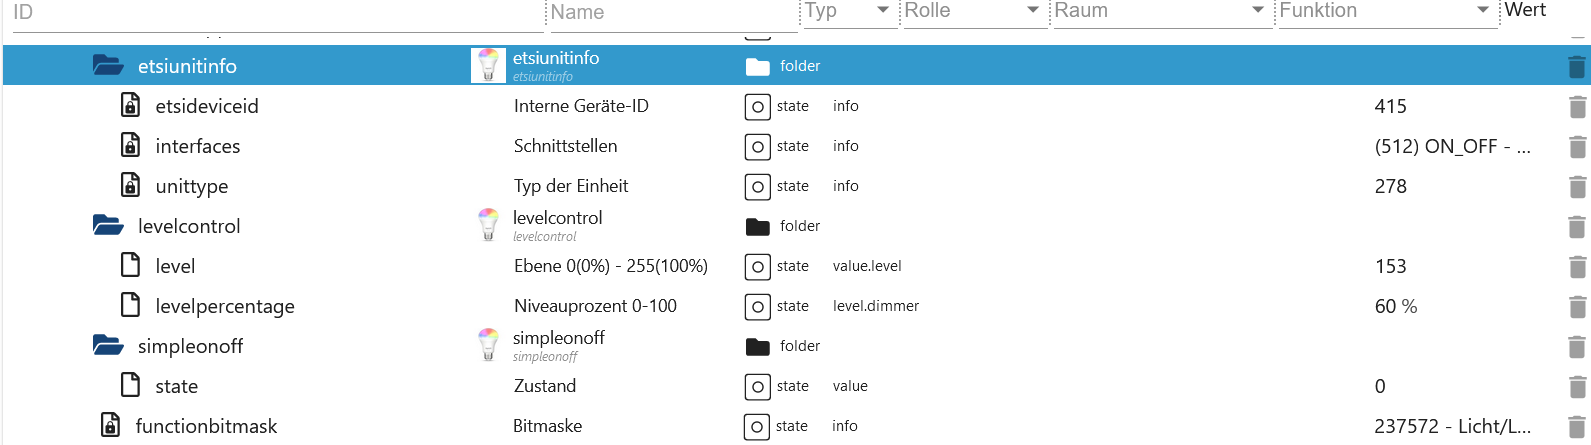
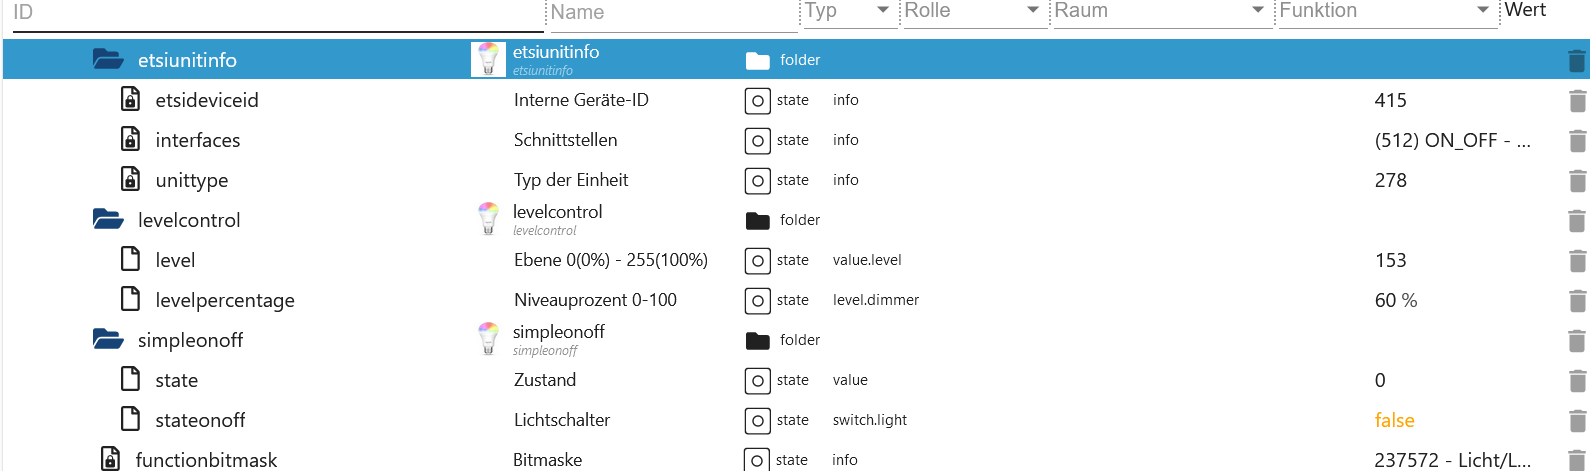
update dect 500

diff --git a/docs/de/README.md b/docs/de/README.md
@@ -336,7 +336,8 @@
     -   `colorcontrol.unmapped_saturation`: Siehe `colorcontrol.unmapped_hue`
     -   `levelcontrol.level`: Level/Niveau von 0(0%) bis 255(100%)
     -   `levelcontrol.levelpercentage`: Level/Niveau in Prozent, 0 bis 100 Prozent
-    -   `simpleonoff.state`: Aktor an(true)/aus(false)
+    -   `simpleonoff.state`: 0=off 1=on 2=toggle
+    -   `simpleonoff.simpleonoff`: Aktor an(true)/aus(false)
     -   `name`: Name vom Aktor ändern`:
 
 -   Möglich Hue und Saturation Werte

diff --git a/docs/en/README.md b/docs/en/README.md
@@ -336,7 +336,8 @@
     -   `colorcontrol.unmapped_saturation`: See `colorcontrol.unmapped_hue`
     -   `levelcontrol.level`: Level from 0(0%) to 255(100%)
     -   `levelcontrol.levelpercentage`: Level in percent, 0 to 100 percent
-    -   `simpleonoff.state`: Actuator on(true)/off(false)
+    -   `simpleonoff.state`: 0=off 1=on 2=toggle
+    -   `simpleonoff.simpleonoff`: Actor on(true)/off(false)
     -   `name`: Change the name of the actuator`:
 
 -   Possible Hue and Saturation values
